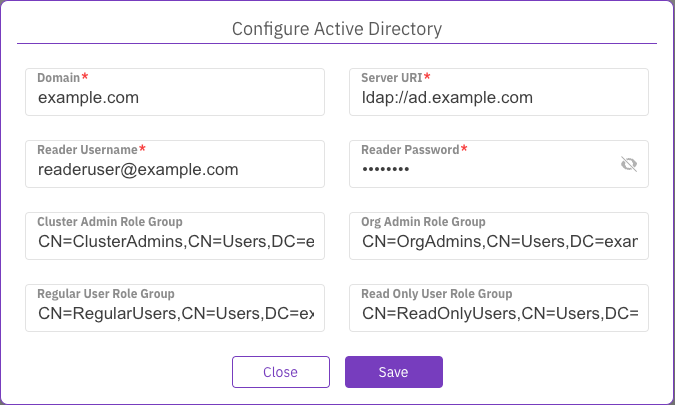
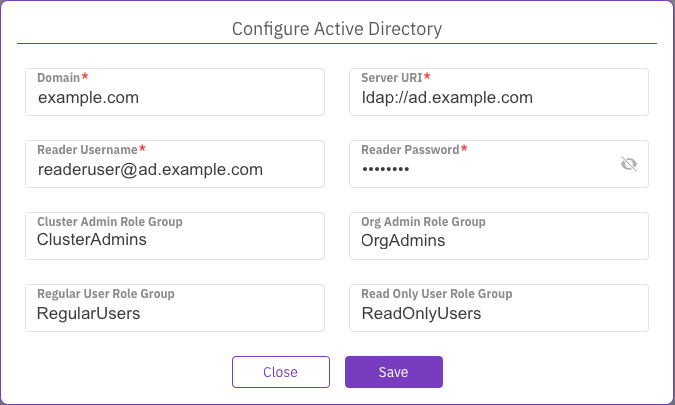
GITBOOK-513: LDAP: update screen example

diff --git a/usage/user-management/user-management.md b/usage/user-management/user-management.md
@@ -112,41 +112,45 @@ To use LDAP for authenticating users, set the property values based on your spec
 <summary>LDAP property descriptions</summary>
 
 * **Server URI:** The URI or address of the LDAP server, including the protocol (in this case, LDAP), the server's hostname or IP address, and the port number.\
-  Example value: ldap://ldap.example.com:389
+  Example value: `ldap://ldap.example.com:389`
 * **Protocol Version:** The version of the LDAP protocol being used. Common versions include LDAPv2 and LDAPv3.\
-  Example value: 3
+  Example value: `3`
 * **Start TLS:** When enabled, this option initiates a Transport Layer Security (TLS) connection with the LDAP server. TLS provides encryption and secure communication between the client and server, protecting the confidentiality and integrity of data transmitted over the network.
 *   **Ignore Certificate Failures:** When enabled, this option instructs the LDAP client to ignore certificate validation failures during the TLS/SSL handshake process. Certificate validation failures can include expired, self-signed, or mismatched certificates. Enabling this option allows the client to establish a connection even if the server's certificate cannot be fully validated. Use this option cautiously, as it may expose the connection to potential security risks.
 
     Enabling _Start TLS_ and _Ignore Certificate Failures_ must be done based on your specific security requirements and the configuration of your LDAP server.
 * **Server Timeout Seconds:** The maximum amount of time, in seconds, the client waits for a response from the LDAP server before timing out.\
-  Example value: 30
+  Example value: `30`
 * **Base DN :** The base distinguished name (DN) is the starting point for searching the directory tree. It represents the top-level entry in the LDAP directory.\
-  Example Value: dc=example,dc=com
+  Example Value: `dc=example,dc=com`
 * **Reader Username:** The username or distinguished name (DN) of a dedicated reader user account used for authenticating and reading data from the LDAP server.\
-  Example value: cn=reader,dc=example,dc=com
+  Example value: `cn=reader,dc=example,dc=com`
 * **Reader Password:** The password is associated with the reader user account for authentication purposes.\
-  Example Value: \*\*\*\*\*\*\*\*
+  Example Value: `********`
 * **User ID Attribute:** The attribute in the LDAP schema that represents the unique identifier or username for user entries.\
-  Example value: uid
+  Example value: `uid`
 * **User Object Class:** The object class or object type in the LDAP schema defines the structure and attributes of user entries.\
-  Example value: person
+  Example value: `person`
 * **User Revocation Attribute:** An attribute indicates a user account's revocation status, typically a boolean attribute set to true or false.\
-  Example value: isRevoked
+  Example value: `isRevoked`
 * **Group ID Attribute:** The attribute in the LDAP schema represents the unique identifier or name for group entries.\
-  Example value: cn
+  Example value: `cn`
 * **Group Membership Attribute:** The attribute establishes the membership relationship between users and groups, specifying which users are members of a particular group.\
-  Example value: member
+  Example value: `member`
 * **Group Object Class:** The object class or object type in the LDAP schema defines the structure and attributes of group entries.\
-  Example value: groupOfNames
+  Example value: `groupOfNames`
 * **Cluster Admin Group:** The LDAP group granted administrative privileges for managing the LDAP cluster.\
-  Example value: cn=cluster\_admins,ou=groups,dc=example,dc=com
+  Example value: `cn=cluster_admins,ou=groups,dc=example,dc=com`\
+  sAMAccountName: `cluster_admins`
 * **Organization Admin Role Group:** The LDAP group granted administrative privileges for managing specific organizations or units within the LDAP directory.\
-  Example value: cn=org\_admins,ou=groups,dc=example,dc=com
+  Example value: `cn=org_admins,ou=groups,dc=example,dc=com`\
+  sAMAccountName: `org_admins`
 * **Regular User Role Group:** The group in LDAP represents regular users with standard access privileges.\
-  Example value: cn=regular\_users,ou=groups,dc=example,dc=com
+  Example value: `cn=regular_users,ou=groups,dc=example,dc=com`\
+  sAMAccountName: `regular_users`
 * **Read-only User Role Group:** The group in LDAP represents users with read-only access privileges restricted from making modifications.\
-  Example value: cn=read\_only\_users,ou=groups,dc=example,dc=com
+  Example value: `cn=read_only_users,ou=groups,dc=example,dc=com`\
+  sAMAccountName: `read_only_users`
 
 </details>
 
@@ -171,21 +175,25 @@ To use Active Directory for authenticating users, set the property values based 
 <summary>Active Directory property descriptions</summary>
 
 * **Domain:** The domain name of the Active Directory environment. It represents the network boundary and provides a way to organize and manage resources, users, and groups.\
-  Example value: example.com
+  Example value: `example.com`
 * **Server URI:** The URI or address of the Active Directory server, including the protocol (in this case, LDAP) and the server's hostname or IP address.\
-  Example value: ldap://ad.example.com
+  Example value: `ldap://ad.example.com`
 * **Reader Username:** A dedicated reader user account's username or user principal name (UPN) used for authenticating and reading data from the Active Directory.\
-  Example value: readeruser@example.com
+  Example value: `readeruser@ad.example.com`
 * **Reader Password:** The password associated with the reader user account for authentication purposes.\
-  Example Value: \*\*\*\*\*\*\*\*
+  Example Value: `********`
 * **Cluster Admin Role Group:** The group in Active Directory granted administrative privileges for managing the cluster or server infrastructure.\
-  Example value: CN=ClusterAdmins,CN=Users,DC=example,DC=com
+  Example value: `CN=ClusterAdmins,CN=Users,DC=example,DC=com`\
+  sAMAccountName: `ClusterAdmins`
 * **Organization Admin Role Group:** The group in Active Directory granted administrative privileges for managing specific organizations or units within the Active Directory environment.\
-  Example value: CN=OrgAdmins,CN=Users,DC=example,DC=com
+  Example value: `CN=OrgAdmins,CN=Users,DC=example,DC=com`\
+  sAMAccountName: `OrgAdmins`
 * **Regular User Role Group:** The group in Active Directory represents regular users with standard access privileges.\
-  Example value: CN=RegularUsers,CN=Users,DC=example,DC=com
+  Example value: `CN=RegularUsers,CN=Users,DC=example,DC=com`\
+  sAMAccountName:  `RegularUsers`
 * **Read-only User Role Group:** The group in Active Directory represents users with read-only access privileges, restricted from making modifications.\
-  Example value: CN=ReadOnlyUsers,CN=Users,DC=example,DC=com
+  Example value: `CN=ReadOnlyUsers,CN=Users,DC=example,DC=com`\
+  sAMAccountName:  `ReadOnlyUsers`
 
 </details>
 
